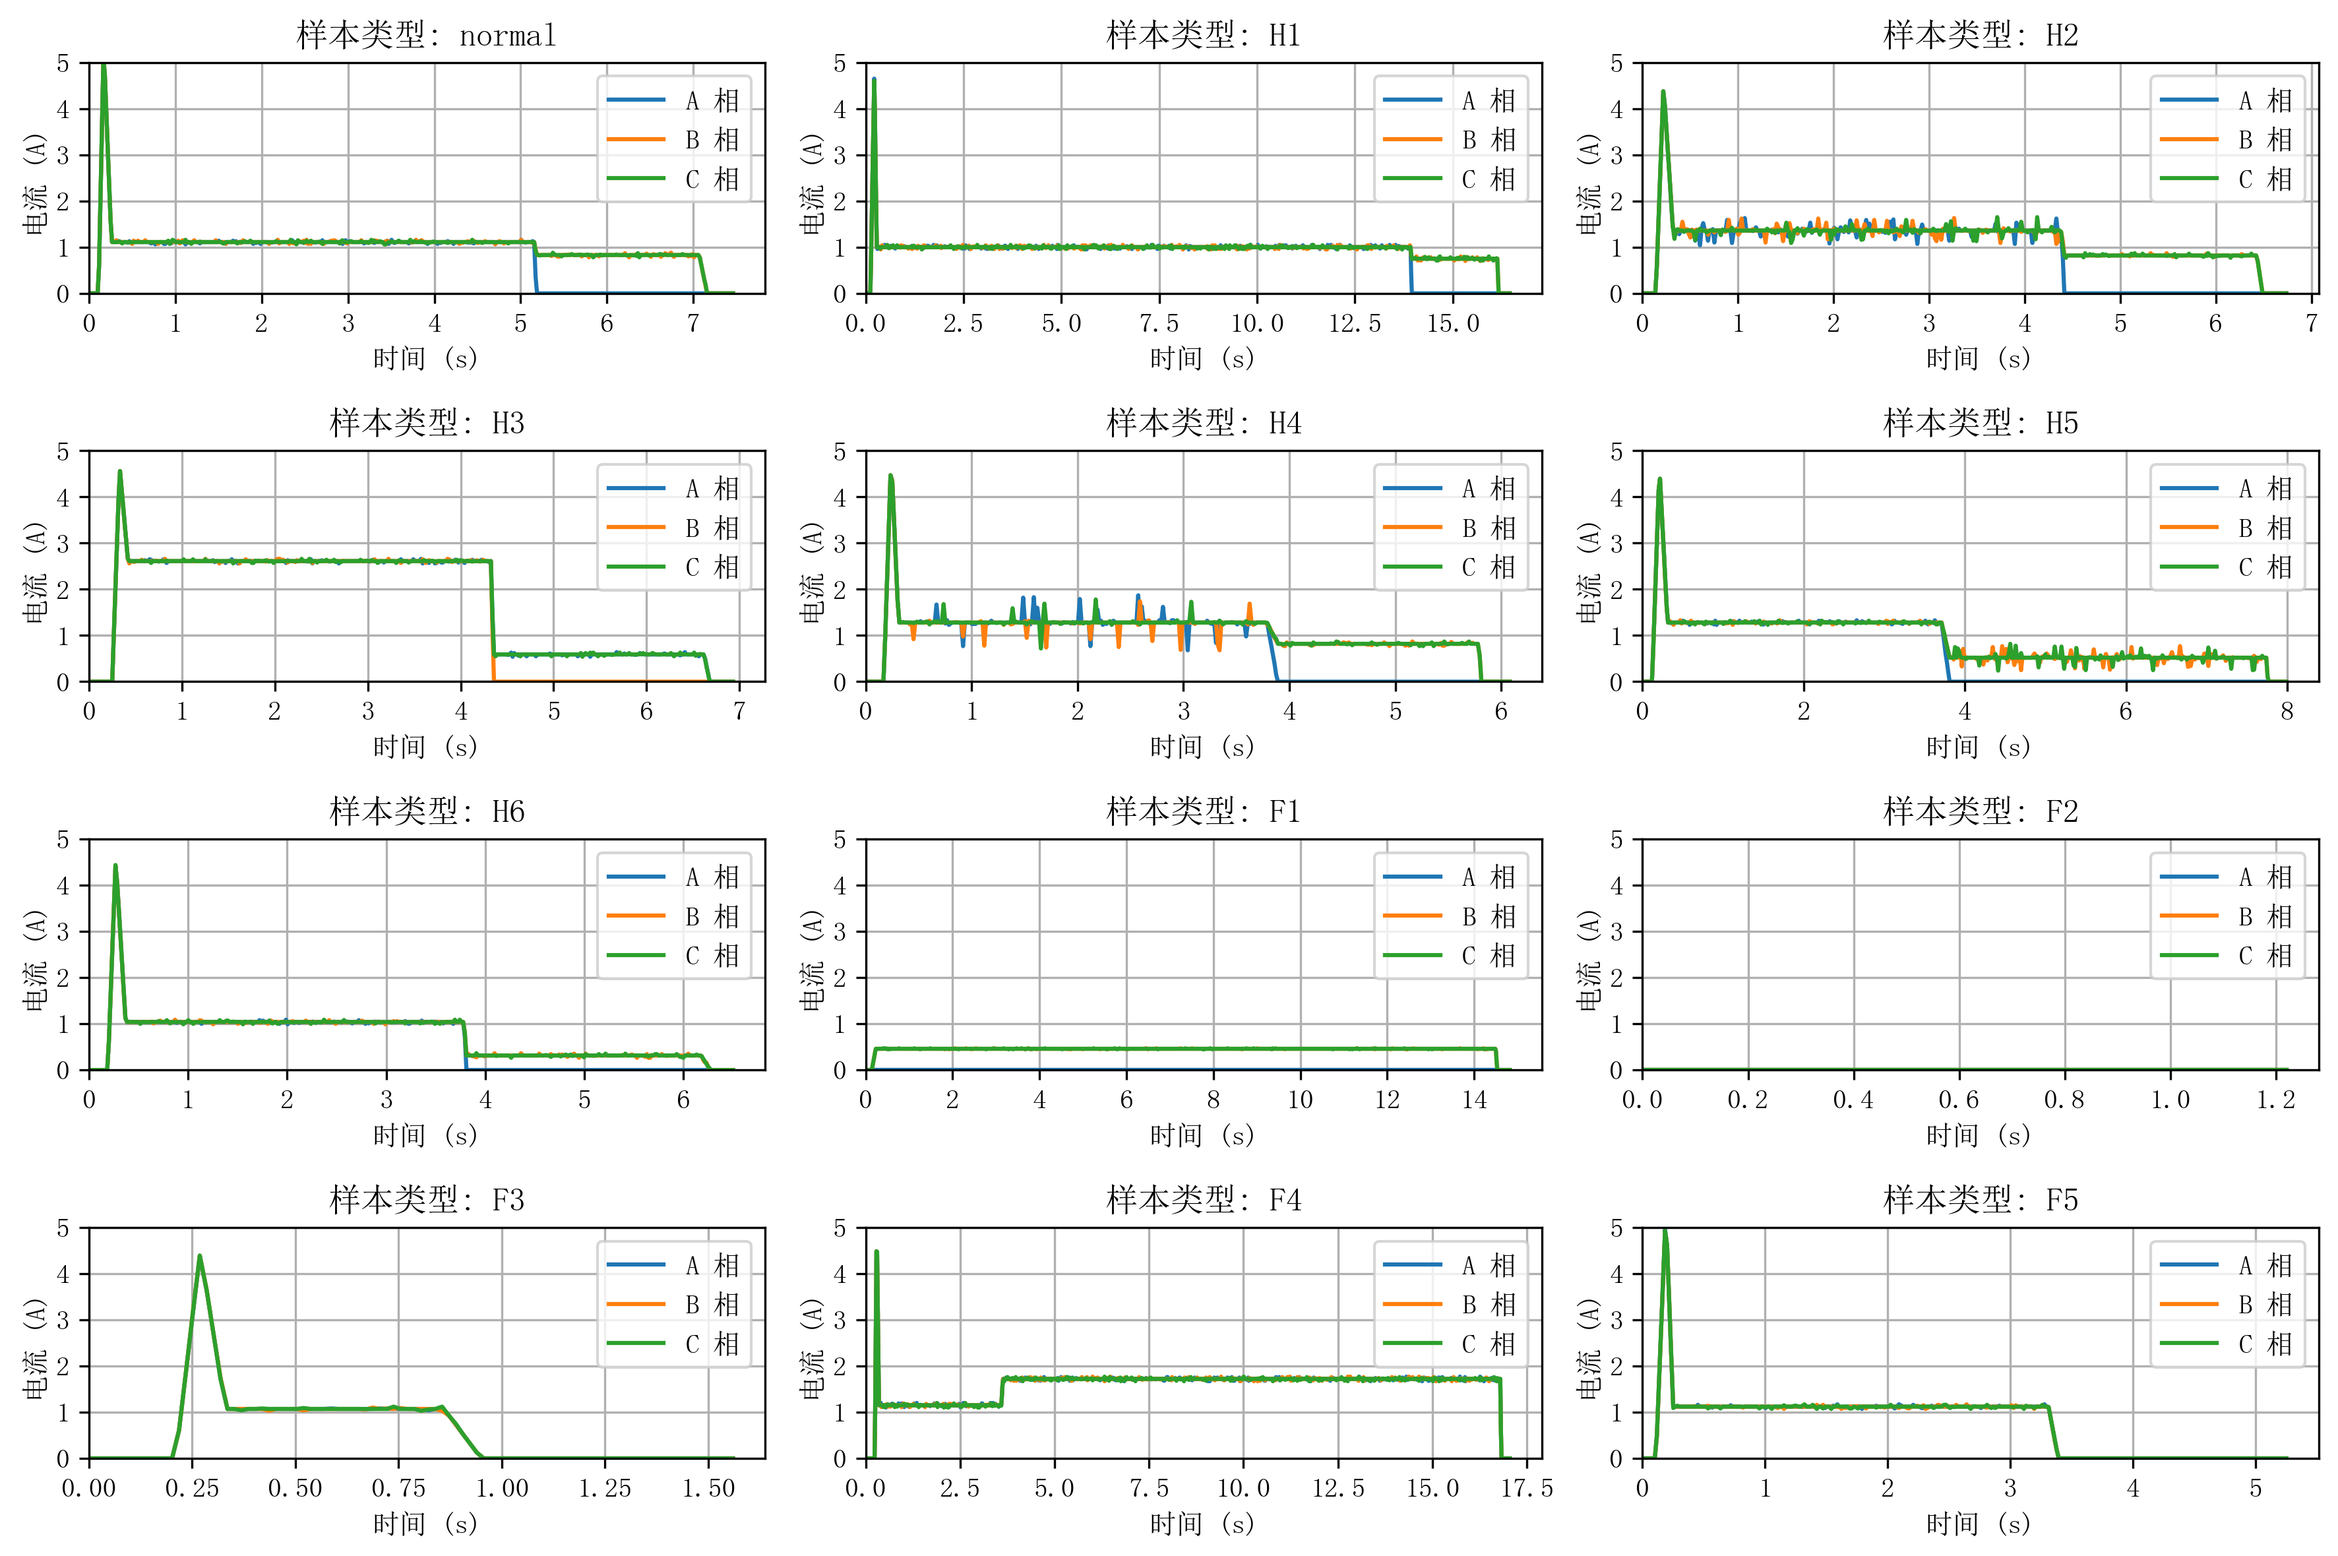
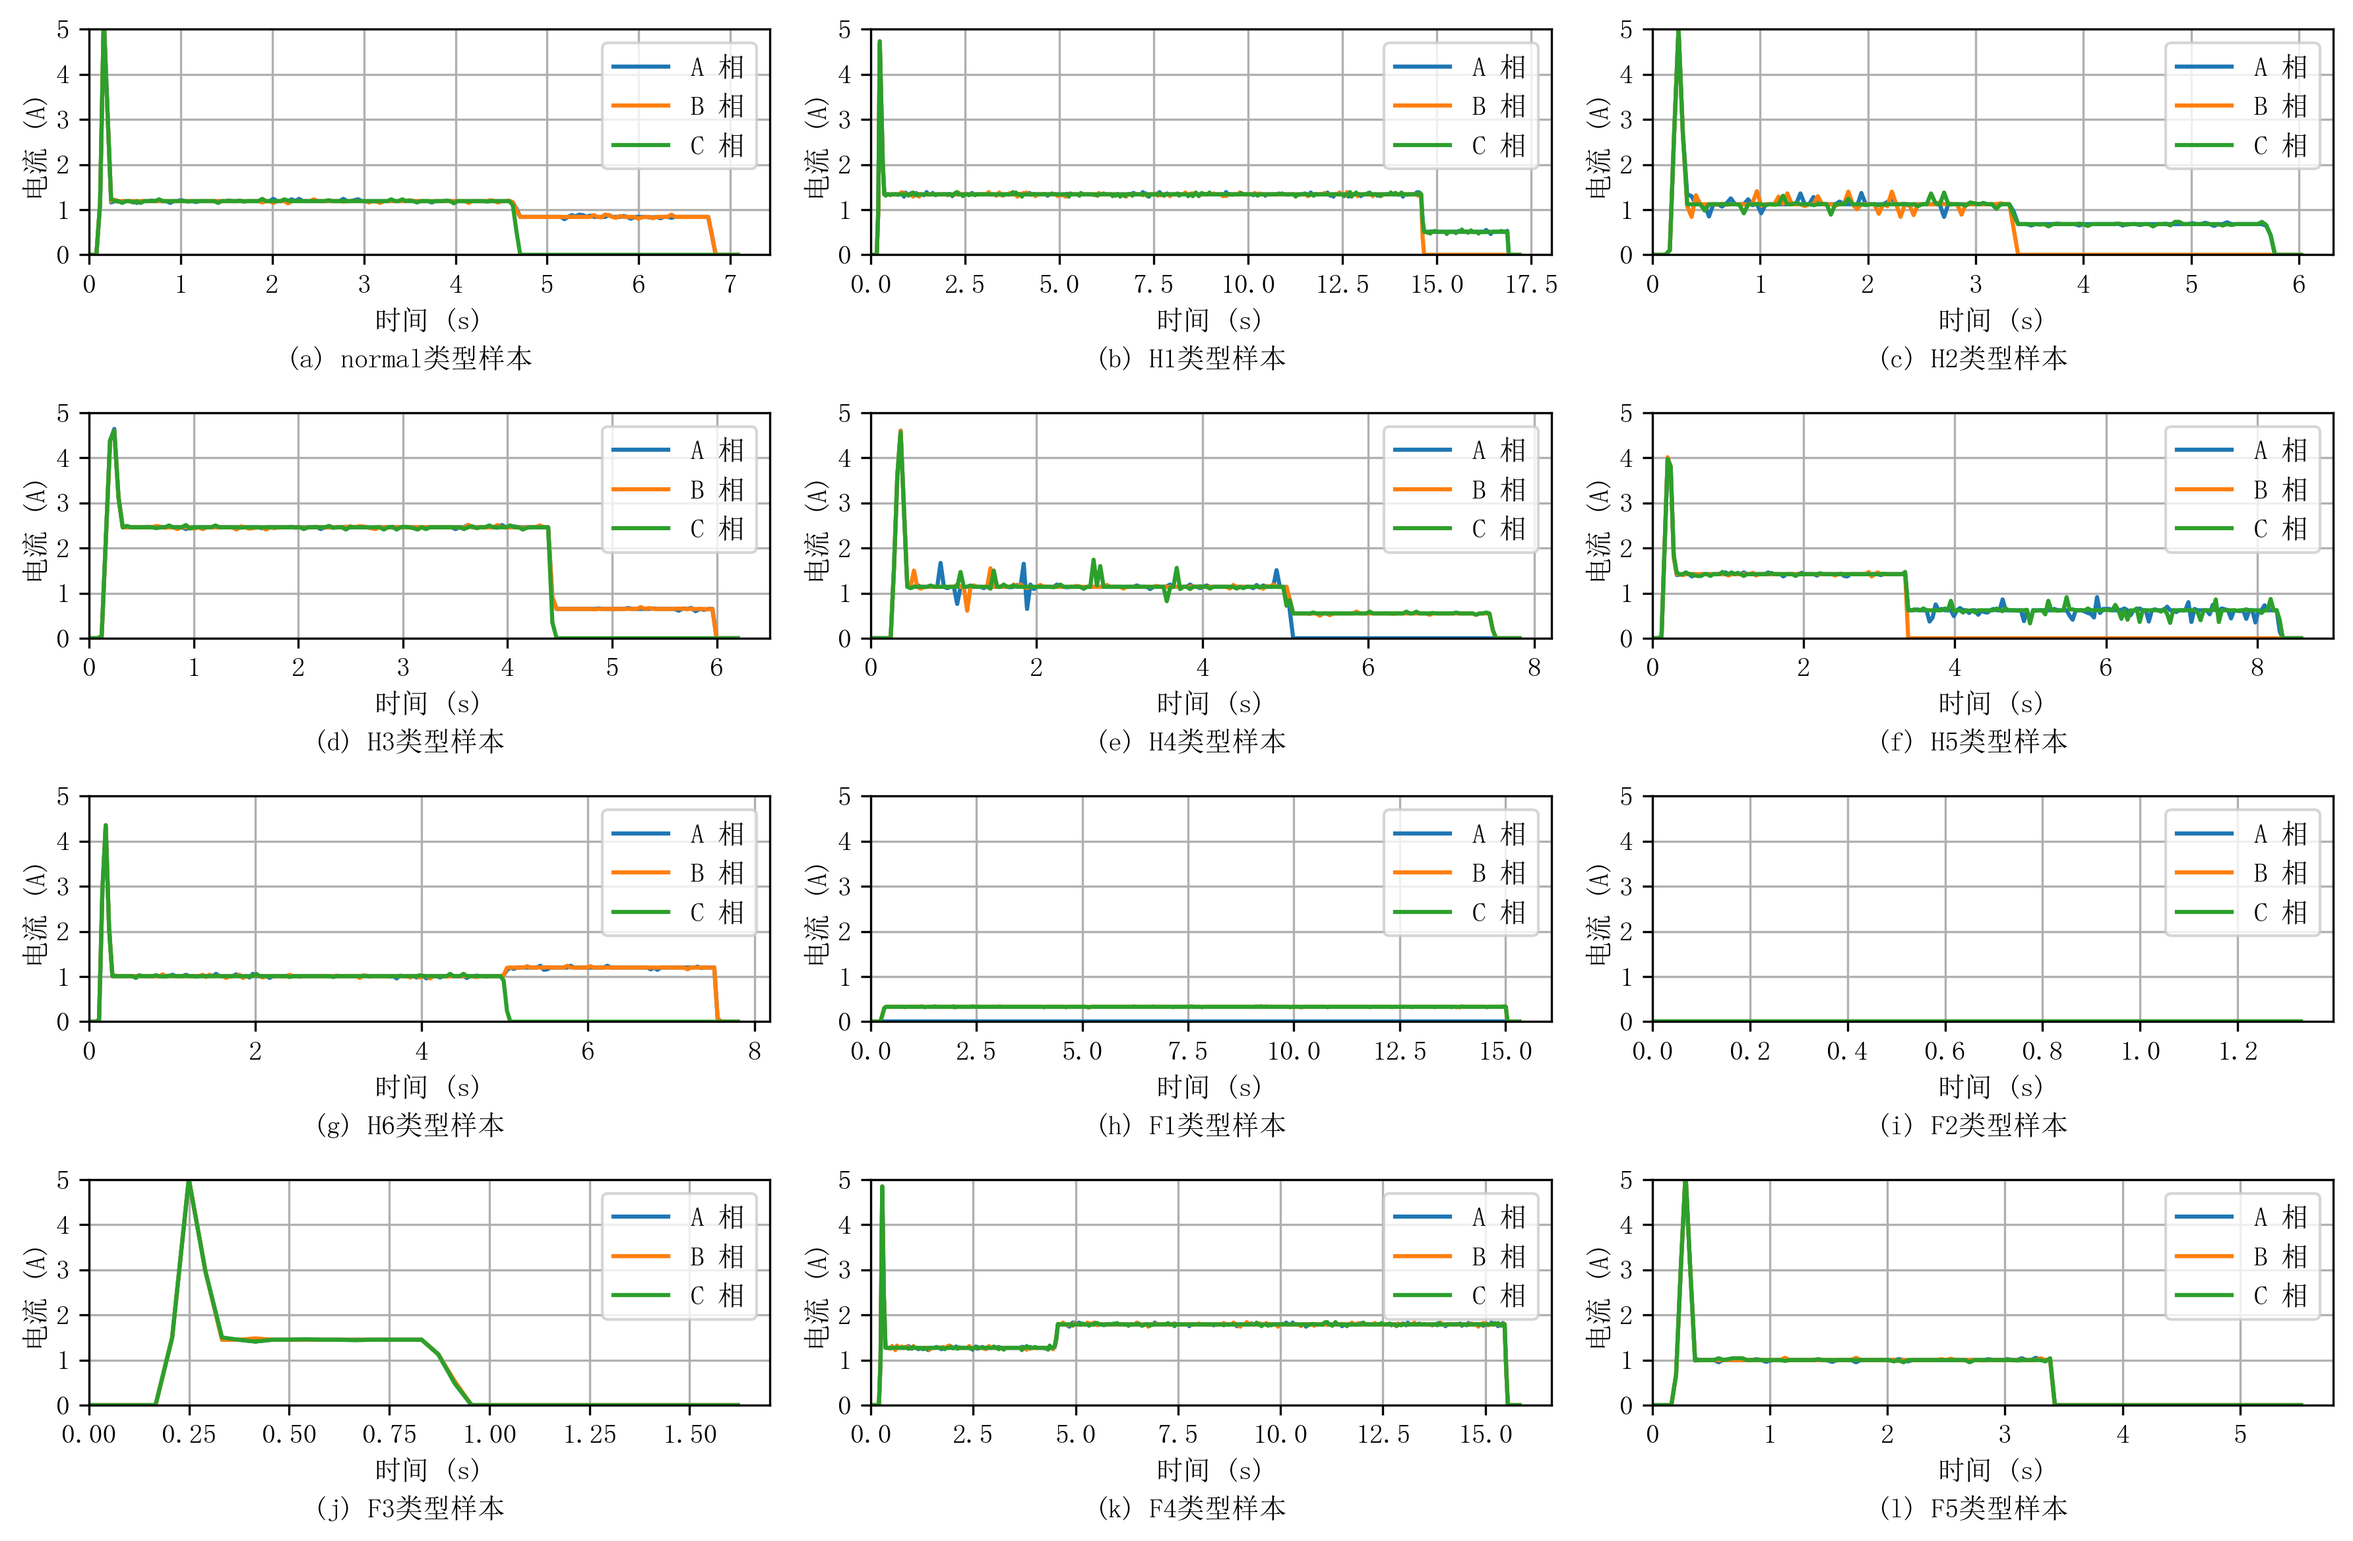
优化展现

Changed region(s): [[0.0, 0.0, 0.9929, 0.9996]]

diff --git a/draw_1.py b/draw_1.py
@@ -35,8 +35,7 @@ def plot_samples():
             time, current = sample[phase]
             ax.plot(time, current, label=f'{phase} 相')
         
-        # 设置子图标题和标签
-        ax.set_title(f'样本类型: {sample_type}')
+        # 设置子图标签
         ax.set_xlabel('时间 (s)')
         ax.set_ylabel('电流 (A)')
         ax.legend(loc='upper right')  # 强制legend在右上角
@@ -46,9 +45,19 @@ def plot_samples():
         ax.set_xlim(left=0)
         ax.set_ylim(bottom=0, top=5)  # y轴从0开始
         ax.yaxis.set_major_locator(plt.MultipleLocator(1))  # 设置y轴刻度间隔为1
+        
+        # 在x轴标签下方添加子图标题，位置下移并添加标号
+        subplot_label = chr(97 + i) # 将0,1,2...转换为a,b,c...
+        ax.text(0.47, -0.5, f'({subplot_label}) {sample_type}类型样本', 
+                horizontalalignment='center', 
+                transform=ax.transAxes,
+                fontsize=10)
     
     # 调整子图之间的间距
     plt.tight_layout()
+    
+    # 进一步调整子图间距，减小上下间距
+    plt.subplots_adjust(hspace=0.7)  # 减小垂直间距
     
     # 保存图片
     plt.savefig('samples.png', dpi=300, bbox_inches='tight')
